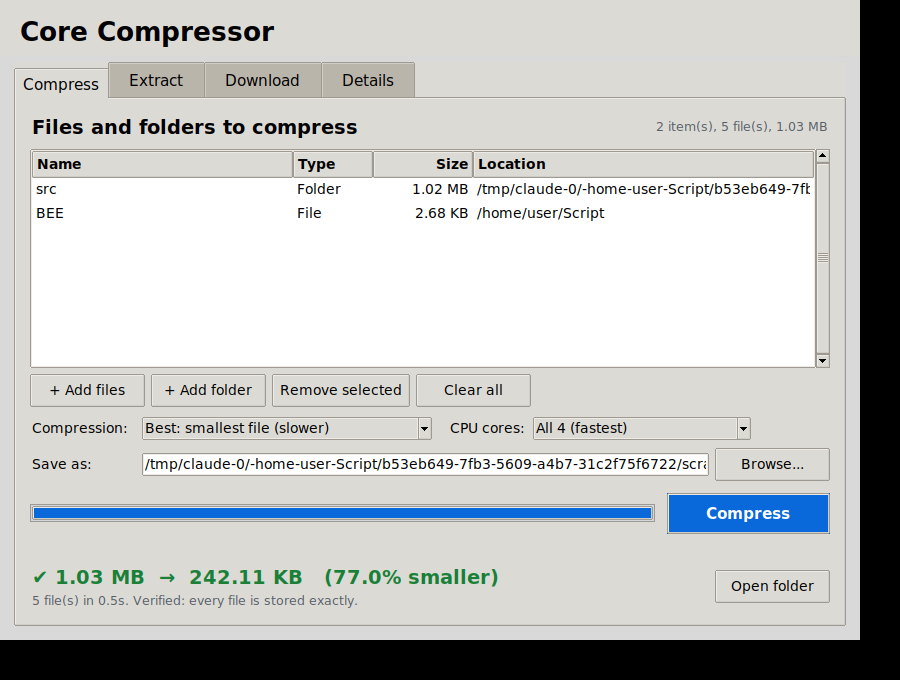
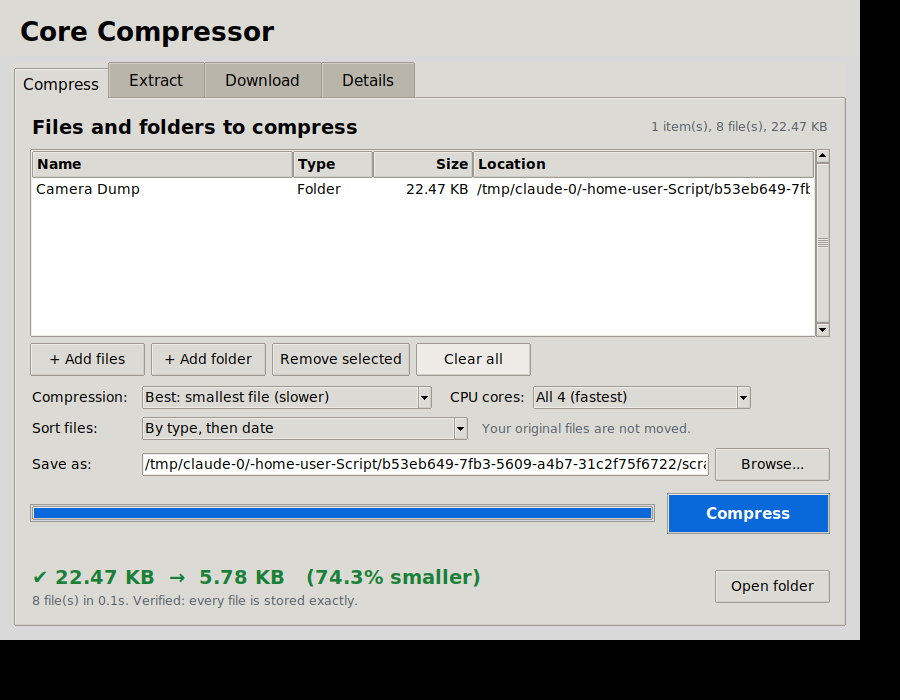
Add sorting files into folders by type, date taken or name
New Sort files setting (Compress and Download tabs, --sort on the command
line) rearranges files inside the archive: by type (Videos, Photos, RAW
photos, ...), by date taken (year/month), by name group, or type combined
with date or name. Originals are never moved.

Dates come from EXIF (JPEG/TIFF/most RAW) and MP4/MOV mvhd metadata, with
the file modified time as fallback; downloads keep the server's
Last-Modified date. Name clashes get ' (2)' suffixes.

Claude-Session: https://claude.ai/code/session_01PV8kksR2Ci8adHBLdtsAQD

Changed region(s): [[0.0, 0.4632, 0.9644, 0.9574], [0.0311, 0.0309, 0.9333, 0.3397]]

diff --git a/CoreCompressor/core_compressor.py b/CoreCompressor/core_compressor.py
@@ -260,6 +260,195 @@ def _is_regular(path):
     return os.path.isfile(path) and not os.path.islink(path)
 
 
+# ----------------------------------------------------------------------------- sorting
+
+SORT_MODES = {
+    "none": "Keep folders as they are",
+    "type": "By type (Videos, Photos, RAW...)",
+    "date": "By date taken (year / month)",
+    "type-date": "By type, then date",
+    "name": "By name (IMG_..., Vacation...)",
+    "type-name": "By type, then name",
+}
+FILE_TYPES = {
+    "Videos": "mp4 mov m4v avi mkv wmv flv webm mts m2ts 3gp mpg mpeg vob",
+    "Photos": "jpg jpeg png gif bmp tif tiff webp heic heif avif",
+    "RAW photos": "cr2 cr3 crw nef nrw arw srf sr2 dng orf rw2 raf pef srw raw rwl 3fr "
+                  "erf kdc mos mrw x3f iiq",
+    "Audio": "mp3 wav flac aac m4a ogg wma opus aiff aif",
+    "Documents": "pdf doc docx xls xlsx ppt pptx txt rtf odt ods odp csv md epub",
+    "Archives": "zip rar 7z tar gz xz bz2 iso",
+}
+TYPE_OF = {ext: kind for kind, exts in FILE_TYPES.items() for ext in exts.split()}
+MONTHS = ["January", "February", "March", "April", "May", "June", "July", "August",
+          "September", "October", "November", "December"]
+_TIFF_BASED = {"jpg", "jpeg", "tif", "tiff", "cr2", "nef", "nrw", "arw", "srf", "sr2",
+               "dng", "orf", "pef", "srw", "rw2", "3fr", "erf", "kdc", "mos", "iiq"}
+_ISO_BMFF = {"mp4", "mov", "m4v", "3gp", "heic", "heif", "avif", "cr3"}
+
+
+def file_type(path):
+    return TYPE_OF.get(os.path.splitext(path)[1].lower().lstrip("."), "Other")
+
+
+def _plausible(ts):
+    return 315532800 <= ts <= time.time() + 86400 * 366  # 1980 .. next year
+
+
+def _exif_date(path):
+    """DateTimeOriginal from a JPEG or a TIFF-based RAW file, as a timestamp."""
+    with open(path, "rb") as f:
+        head = f.read(256 * 1024)
+    if head[:2] == b"\xff\xd8":  # JPEG: find the APP1 "Exif" segment
+        i = 2
+        while i + 4 <= len(head) and head[i] == 0xFF:
+            marker, size = head[i + 1], struct.unpack(">H", head[i + 2:i + 4])[0]
+            if marker == 0xE1 and head[i + 4:i + 10] == b"Exif\x00\x00":
+                head = head[i + 10:i + 2 + size]
+                break
+            i += 2 + size
+        else:
+            return None
+    if head[:4] not in (b"II*\x00", b"MM\x00*", b"IIRO", b"IIU\x00"):  # TIFF (+ ORF, RW2)
+        return None
+    e = "<" if head[:2] == b"II" else ">"
+
+    def entries(offset):
+        if offset + 2 > len(head):
+            return {}
+        count = struct.unpack(e + "H", head[offset:offset + 2])[0]
+        out = {}
+        for k in range(count):
+            at = offset + 2 + 12 * k
+            if at + 12 > len(head):
+                break
+            tag, kind, n = struct.unpack(e + "HHI", head[at:at + 8])
+            value = head[at + 8:at + 12]
+            out[tag] = (kind, n, value)
+        return out
+
+    def read_text(entry):
+        kind, n, value = entry
+        if kind != 2:
+            return None
+        if n <= 4:
+            raw = value[:n]
+        else:
+            off = struct.unpack(e + "I", value)[0]
+            raw = head[off:off + n]
+        return raw.split(b"\x00")[0].decode("ascii", "ignore")
+
+    ifd0 = entries(struct.unpack(e + "I", head[4:8])[0])
+    candidates = []
+    if 0x8769 in ifd0:  # Exif sub-IFD
+        exif = entries(struct.unpack(e + "I", ifd0[0x8769][2])[0])
+        candidates += [exif.get(0x9003), exif.get(0x9004)]
+    candidates.append(ifd0.get(0x0132))
+    for entry in candidates:
+        text = entry and read_text(entry)
+        if text:
+            try:
+                ts = time.mktime(time.strptime(text.strip()[:19], "%Y:%m:%d %H:%M:%S"))
+            except (ValueError, OverflowError):
+                continue
+            if _plausible(ts):
+                return ts
+    return None
+
+
+def _mp4_date(path):
+    """Recording date stored in an MP4/MOV file (moov/mvhd creation time)."""
+    with open(path, "rb") as f:
+        end = os.fstat(f.fileno()).st_size
+
+        def boxes(start, stop):
+            pos = start
+            while pos + 8 <= stop:
+                f.seek(pos)
+                size, kind = struct.unpack(">I4s", f.read(8))
+                header = 8
+                if size == 1:
+                    size = struct.unpack(">Q", f.read(8))[0]
+                    header = 16
+                elif size == 0:
+                    size = stop - pos
+                if size < header:
+                    return
+                yield kind, pos + header, pos + size
+                pos += size
+
+        for kind, body, stop in boxes(0, end):
+            if kind == b"moov":
+                for sub, sbody, _ in boxes(body, stop):
+                    if sub == b"mvhd":
+                        f.seek(sbody)
+                        version = f.read(4)[0]
+                        raw = f.read(8 if version == 1 else 4)
+                        secs = int.from_bytes(raw, "big") - 2082844800  # 1904 -> 1970
+                        return secs if _plausible(secs) else None
+    return None
+
+
+def date_taken(path):
+    """Best guess of when a photo or video was taken; falls back to the file date."""
+    ext = os.path.splitext(path)[1].lower().lstrip(".")
+    try:
+        if ext in _TIFF_BASED:
+            ts = _exif_date(path)
+            if ts:
+                return ts
+        if ext in _ISO_BMFF:
+            ts = _mp4_date(path)
+            if ts:
+                return ts
+    except (OSError, struct.error, IndexError, ValueError):
+        pass
+    return os.path.getmtime(path)
+
+
+def name_group(filename):
+    """'IMG_1234.jpg' -> 'IMG', 'Vacation 2 (3).mp4' -> 'Vacation'."""
+    stem = os.path.splitext(filename)[0]
+    group = re.sub(r"[\s_\-.()\[\]]*\d[\d\s_\-.()\[\]]*$", "", stem).strip(" _-.")
+    group = re.sub(r'[\\/:*?"<>|]', "_", group)
+    return group or "Other"
+
+
+def sorted_folder(path, mode):
+    parts = []
+    if mode.startswith("type"):
+        parts.append(file_type(path))
+    if mode.endswith("date"):
+        t = time.localtime(date_taken(path))
+        parts += [str(t.tm_year), f"{t.tm_mon:02d} {MONTHS[t.tm_mon - 1]}"]
+    elif mode.endswith("name"):
+        parts.append(name_group(os.path.basename(path)))
+    return "/".join(parts)
+
+
+def sort_entries(entries, mode, log=print):
+    """Give every file a new place inside the archive, based on the sort mode.
+    Folders themselves are not stored; they are recreated from the new paths."""
+    if mode == "none":
+        return entries
+    out, used = [], set()
+    for src, arcname in entries:
+        if os.path.isdir(src) and not os.path.islink(src):
+            continue
+        folder = sorted_folder(src, mode)
+        name = os.path.basename(arcname)
+        target = f"{folder}/{name}" if folder else name
+        stem, ext = os.path.splitext(name)
+        i = 2
+        while target.lower() in used:
+            target = f"{folder}/{stem} ({i}){ext}" if folder else f"{stem} ({i}){ext}"
+            i += 1
+        used.add(target.lower())
+        out.append((src, target))
+    log(f"Sorted {len(out)} file(s) into folders: {SORT_MODES[mode]}.")
+    return sorted(out, key=lambda e: e[1].lower())
+
+
 def _add_entries(tar, entries, manifest, log, on_read, cancel):
     for src, arcname in entries:
         if cancel is not None and cancel.is_set():
@@ -284,7 +473,7 @@ def _add_entries(tar, entries, manifest, log, on_read, cancel):
 
 
 def compress(output, inputs, level="best", log=print, progress=_noop, cancel=None,
-             threads=CPU_COUNT):
+             threads=CPU_COUNT, sort="none"):
     """Create an archive. progress(fraction, text) is called as work proceeds.
     threads = how many CPU cores compress at the same time."""
     if not output.endswith(EXTENSION):
@@ -293,6 +482,7 @@ def compress(output, inputs, level="best", log=print, progress=_noop, cancel=Non
     part = output + ".part"
     skip = {out_abs, os.path.abspath(part)}
     entries = [e for e in collect(inputs) if os.path.abspath(e[0]) not in skip]
+    entries = sort_entries(entries, sort, log)
     total = sum(os.path.getsize(src) for src, _ in entries if _is_regular(src)) or 1
 
     manifest = {"format": 1, "created": time.time(), "files": {}}
@@ -605,6 +795,14 @@ def download(url, folder, log=print, progress=_noop, cancel=None, connections=1)
                 'probably private: share it as "Anyone with the link" and try again.'
             )
         name = _filename_from_response(resp, direct)
+        modified = None
+        if resp.headers.get("Last-Modified"):
+            try:
+                from email.utils import parsedate_to_datetime
+
+                modified = parsedate_to_datetime(resp.headers["Last-Modified"]).timestamp()
+            except (TypeError, ValueError):
+                pass
         total = int(resp.headers.get("Content-Length") or 0)
         split = (connections > 1 and total >= SPLIT_MIN
                  and resp.headers.get("Accept-Ranges", "").lower() == "bytes")
@@ -664,13 +862,15 @@ def download(url, folder, log=print, progress=_noop, cancel=None, connections=1)
     if total and done < total:
         os.remove(path)
         raise RuntimeError(f"Download of {name} was cut off ({human(done)} of {human(total)}).")
+    if modified:  # keep the file's own date (used when sorting by date)
+        os.utime(path, (modified, modified))
     log(f"  downloaded {name} ({human(done)})")
     return path
 
 
 def download_and_compress(urls, output, level="best", keep_originals=False, log=print,
                           progress=_noop, cancel=None, threads=CPU_COUNT,
-                          parallel=1, connections=1):
+                          parallel=1, connections=1, sort="none"):
     """Download every link (`parallel` at a time), then pack them all into one verified
     archive using `threads` CPU cores."""
     urls = [u.strip() for u in urls if u.strip()]
@@ -710,6 +910,7 @@ def download_and_compress(urls, output, level="best", keep_originals=False, log=
 
         log(f"Compressing {len(files)} downloaded file(s)...")
         stats = compress(output, files, level=level, log=log, cancel=cancel, threads=threads,
+                         sort=sort,
                          progress=lambda f, t: progress(0.5 + 0.5 * f, t))
         if keep_originals:
             for f in files:
@@ -999,6 +1200,19 @@ def run_gui():
         ttk.Combobox(parent, textvariable=cores_var, values=list(core_names),
                      state="readonly", width=22).pack(side="left")
 
+    sort_names = {label: key for key, label in SORT_MODES.items()}
+    sort_var = tk.StringVar(value=SORT_MODES["none"])  # shared by both tabs
+
+    def sort_row(parent):
+        row = ttk.Frame(parent)
+        ttk.Label(row, text="Sort files:", width=12).pack(side="left")
+        ttk.Combobox(row, textvariable=sort_var, values=list(sort_names),
+                     state="readonly", width=34).pack(side="left")
+        ttk.Label(row, text="Your original files are not moved.",
+                  style="Hint.TLabel").pack(side="left", padx=12)
+        return row
+
+    c_sort_row = sort_row(ctab)
     level_row = ttk.Frame(ctab)
     ttk.Label(level_row, text="Compression:", width=12).pack(side="left")
     ttk.Combobox(
@@ -1030,6 +1244,7 @@ def run_gui():
     c_status.pack(side="bottom", fill="x", pady=(4, 0))
     c_action.pack(side="bottom", fill="x", pady=(12, 0))
     out_row.pack(side="bottom", fill="x", pady=(8, 0))
+    c_sort_row.pack(side="bottom", fill="x", pady=(8, 0))
     level_row.pack(side="bottom", fill="x", pady=(10, 0))
     buttons.pack(side="bottom", fill="x")
     tree_frame.pack(fill="both", expand=True, pady=(8, 6))
@@ -1077,7 +1292,7 @@ def run_gui():
             def show():
                 if arc_var.get() != path:
                     return
-                for name, is_dir, nbytes in rows:
+                for name, is_dir, nbytes in sorted(rows, key=lambda r: r[0].lower()):
                     xtree.insert("", "end", values=(name + ("/" if is_dir else ""),
                                                     "" if is_dir else human(nbytes)))
                 total = sum(r[2] for r in rows)
@@ -1178,6 +1393,7 @@ def run_gui():
     d_status.pack(side="bottom", fill="x", pady=(4, 0))
     d_action.pack(side="bottom", fill="x", pady=(12, 0))
     d_out_row.pack(side="bottom", fill="x", pady=(8, 0))
+    sort_row(dtab).pack(side="bottom", fill="x", pady=(8, 0))
     d_speed_row.pack(side="bottom", fill="x", pady=(8, 0))
     d_level_row.pack(side="bottom", fill="x", pady=(10, 0))
     link_buttons.pack(side="bottom", fill="x", pady=(6, 0))
@@ -1262,10 +1478,12 @@ def run_gui():
             return
         paths = list(items.values())
         level, threads = level_names[level_var.get()], core_names[cores_var.get()]
+        sort = sort_names[sort_var.get()]
         log(f"Compressing {len(paths)} item(s) into {out}")
 
         def work(cancel):
-            return compress(out, paths, level=level, threads=threads, log=log, cancel=cancel,
+            return compress(out, paths, level=level, threads=threads, sort=sort,
+                            log=log, cancel=cancel,
                             progress=lambda f, t: state.__setitem__("progress", (f, t)))
 
         def success(s):
@@ -1329,14 +1547,14 @@ def run_gui():
         ):
             return
         level, keep = level_names[d_level_var.get()], keep_var.get()
-        threads = core_names[cores_var.get()]
+        threads, sort = core_names[cores_var.get()], sort_names[sort_var.get()]
         parallel, connections = (3, 4) if fast_dl_var.get() else (1, 1)
         log(f"Downloading {len(urls)} link(s) into {out}")
 
         def work(cancel):
             return download_and_compress(
                 urls, out, level=level, keep_originals=keep, log=log, cancel=cancel,
-                threads=threads, parallel=parallel, connections=connections,
+                threads=threads, parallel=parallel, connections=connections, sort=sort,
                 progress=lambda f, t: state.__setitem__("progress", (f, t)))
 
         def success(s):
@@ -1412,6 +1630,8 @@ def main(argv=None):
                    help="best = smallest (default), fast = quickest")
     c.add_argument("--threads", type=int, default=CPU_COUNT,
                    help=f"CPU cores to use (default: all {CPU_COUNT})")
+    c.add_argument("--sort", choices=list(SORT_MODES), default="none",
+                   help="sort files into folders inside the archive")
     x = sub.add_parser("extract", help="unpack an archive")
     x.add_argument("archive")
     x.add_argument("dest", nargs="?", help="destination folder (default: next to archive)")
@@ -1422,6 +1642,8 @@ def main(argv=None):
     d.add_argument("--level", choices=list(LEVELS), default="best")
     d.add_argument("--keep", action="store_true", help="also keep the uncompressed downloads")
     d.add_argument("--threads", type=int, default=CPU_COUNT, help="CPU cores to use")
+    d.add_argument("--sort", choices=list(SORT_MODES), default="none",
+                   help="sort files into folders inside the archive")
     d.add_argument("--parallel", type=int, default=3, help="files downloaded at once (3)")
     d.add_argument("--connections", type=int, default=4,
                    help="connections per big file (4); use 1 if a site complains")
@@ -1431,13 +1653,15 @@ def main(argv=None):
 
     try:
         if args.cmd == "compress":
-            compress(args.output, args.inputs, level=args.level, threads=args.threads)
+            compress(args.output, args.inputs, level=args.level, threads=args.threads,
+                     sort=args.sort)
         elif args.cmd == "extract":
             extract(args.archive, args.dest)
         elif args.cmd == "download":
             download_and_compress(args.urls, args.output, level=args.level,
                                   keep_originals=args.keep, threads=args.threads,
-                                  parallel=args.parallel, connections=args.connections)
+                                  parallel=args.parallel, connections=args.connections,
+                                  sort=args.sort)
         else:
             list_archive(args.archive)
     except Exception as e:

diff --git a/CoreCompressor/README.md b/CoreCompressor/README.md
@@ -43,10 +43,28 @@ Optional: run `pip install tkinterdnd2` to also drag and drop files onto the win
 ```
 python core_compressor.py compress MyStuff.tar.xz photo.png "My Folder" notes.txt
 python core_compressor.py compress MyStuff.tar.xz "My Folder" --level fast --threads 4
+python core_compressor.py compress Sorted.tar.xz "Camera Dump" --sort type-date
 python core_compressor.py download MyDownloads.tar.xz "https://drive.google.com/file/d/.../view" --keep
 python core_compressor.py list     MyStuff.tar.xz
 python core_compressor.py extract  MyStuff.tar.xz  RestoredFolder
 ```
+
+## Sorting files into folders
+
+The **Sort files** setting (Compress and Download tabs) arranges the files into folders inside the archive, so they come out sorted when you extract it. Your original files are never moved or changed.
+
+| Setting | Example of where a file ends up |
+|---|---|
+| Keep folders as they are | `Camera Dump/sub/clip.mp4` (unchanged) |
+| By type | `Videos/clip.mp4`, `Photos/IMG_1234.jpg`, `RAW photos/DSC_0042.NEF` |
+| By date taken | `2023/07 July/clip.mp4` |
+| By type, then date | `Videos/2023/07 July/clip.mp4` |
+| By name | `IMG/IMG_1234.jpg`, `Vacation/Vacation 02.mov` |
+| By type, then name | `Photos/IMG/IMG_1234.jpg` |
+
+Types: Videos, Photos, RAW photos, Audio, Documents, Archives and Other.
+
+The date is the date the photo or video was **taken**. It is read from inside the file: EXIF in JPEG, TIFF and most RAW files (CR2, NEF, ARW, DNG, ORF, PEF...), and the recording date in MP4/MOV videos. If a file has no date inside (for example PNG, HEIC or CR3), the file's own modified date is used. Downloaded files keep the "last changed" date from Google Drive or the website when the server provides it, not the download date. Two files that would end up with the same name are kept as `name.jpg` and `name (2).jpg`.
 
 ## Speed settings
 
